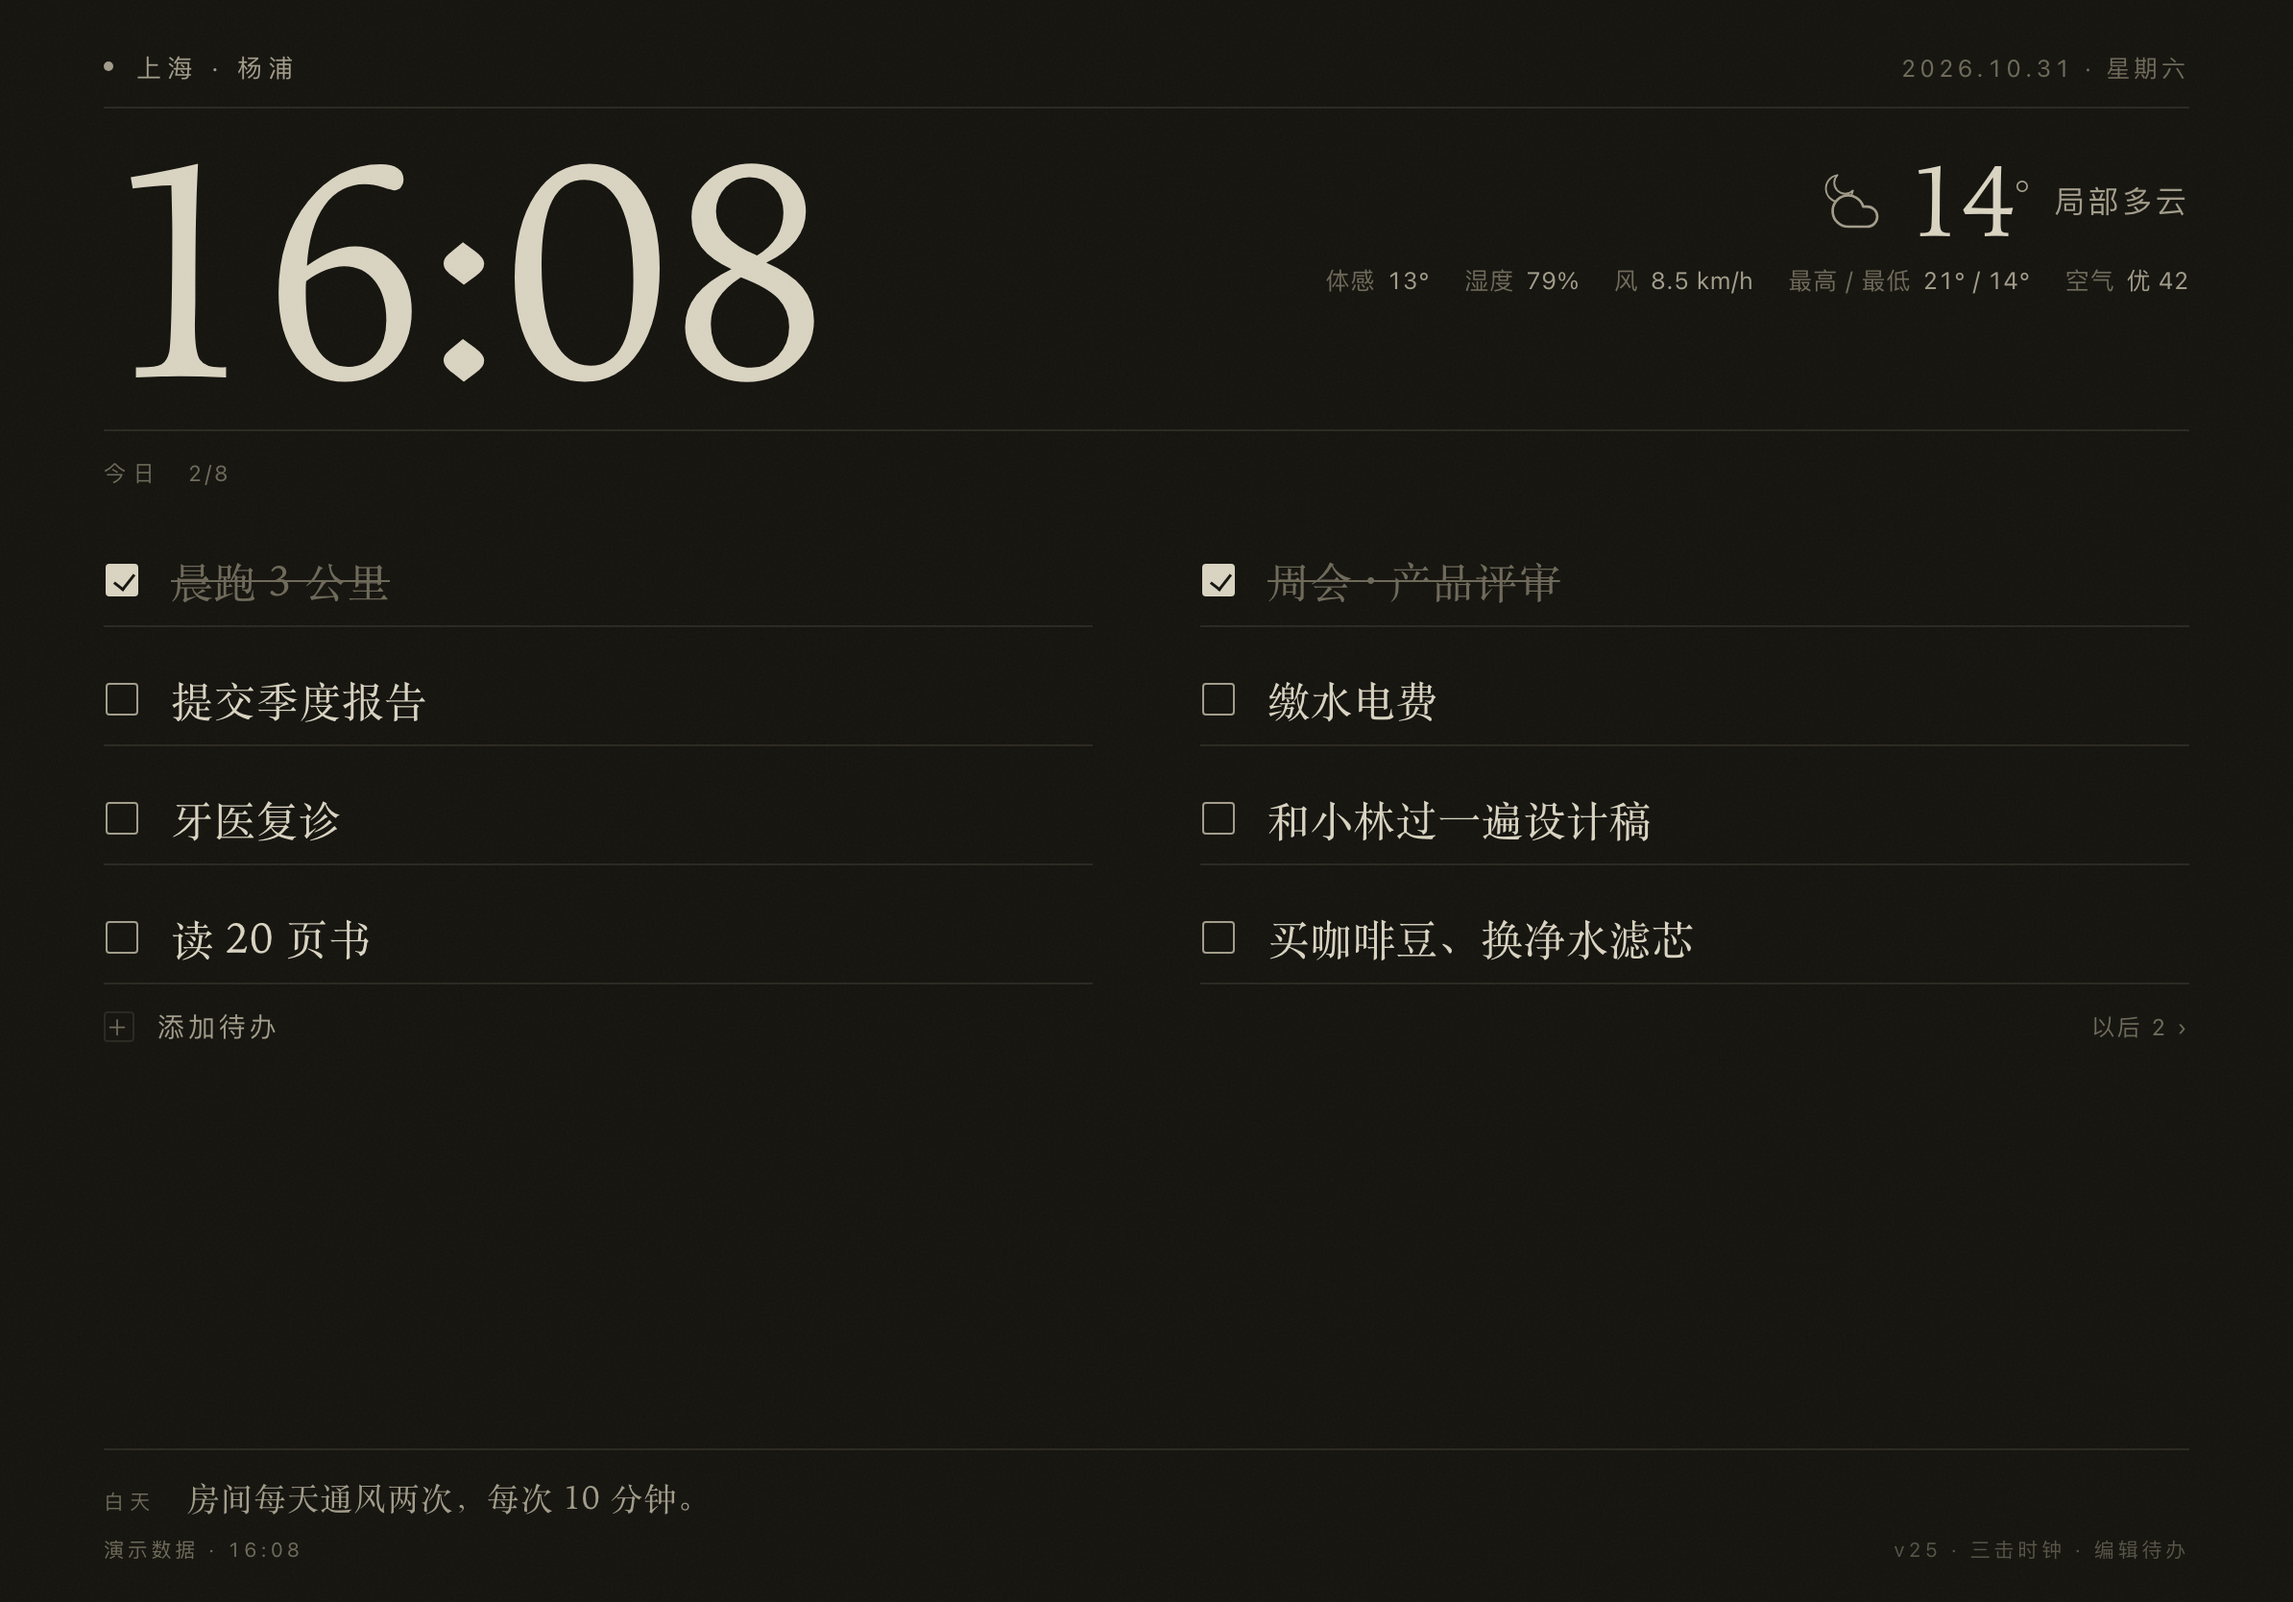
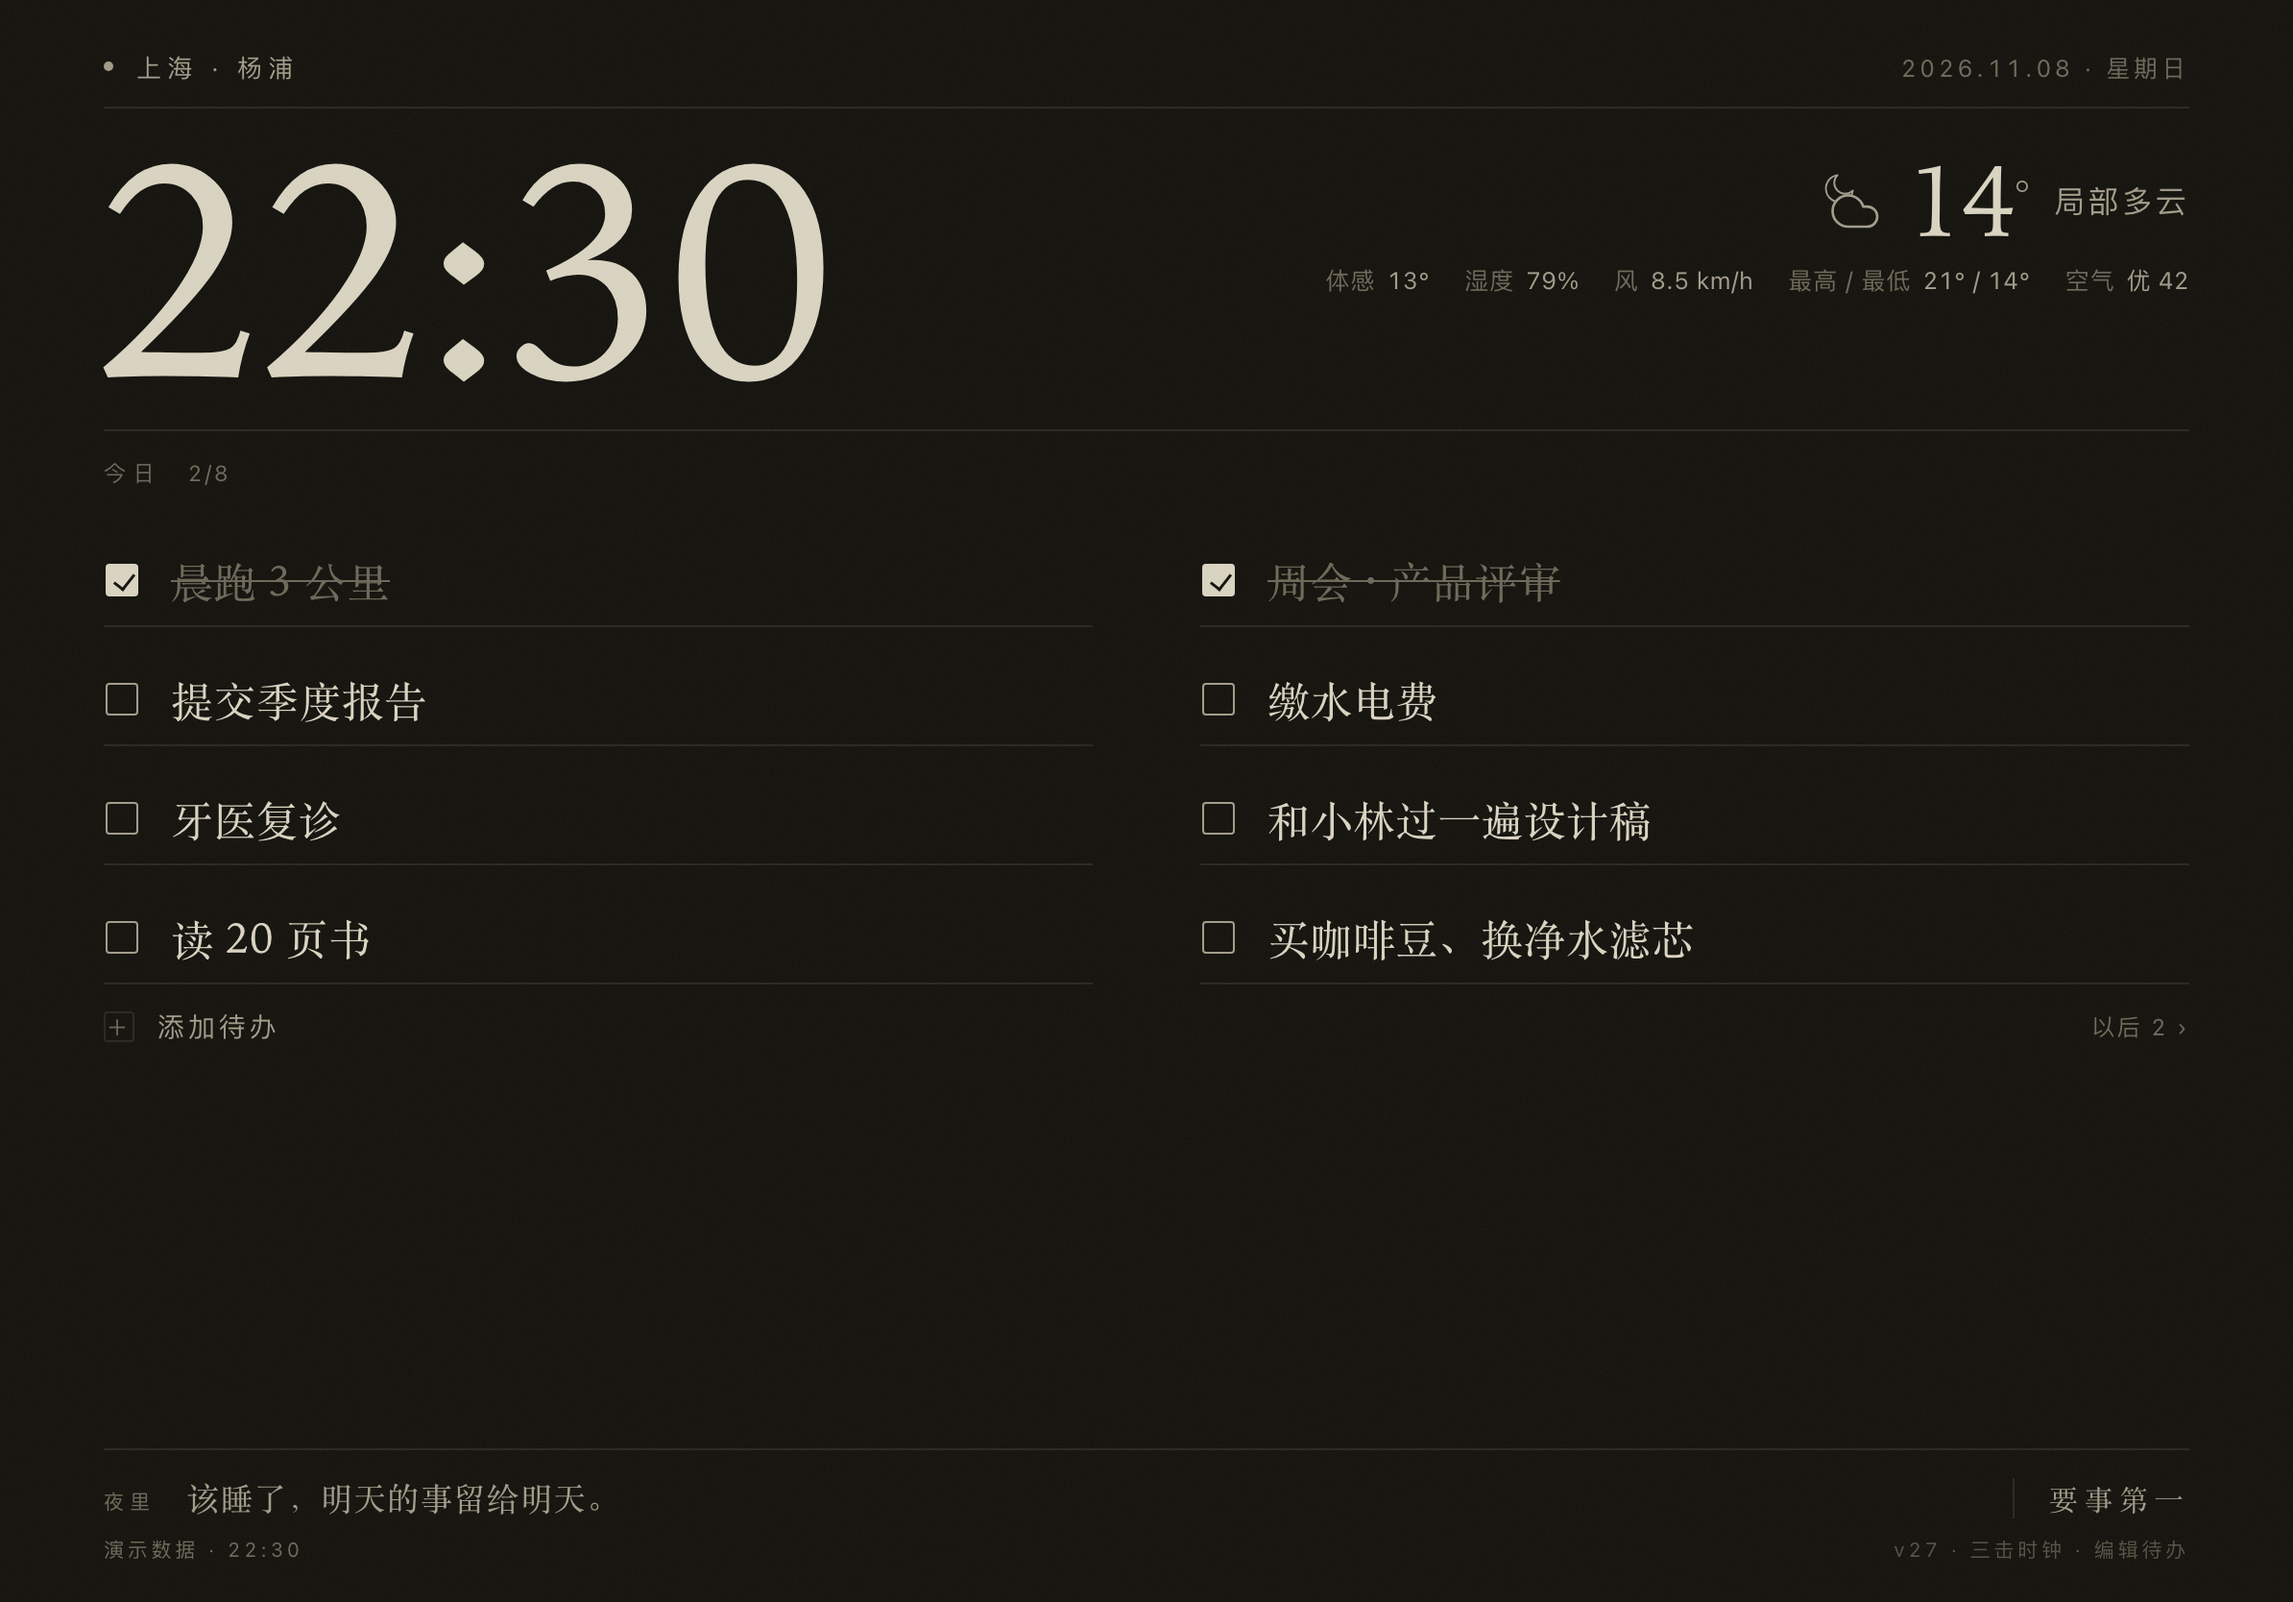
底部提醒右侧加每日轮换的原则（v27）

Changed region(s): [[0.031, 0.0935, 0.1859, 0.2494], [0.2169, 0.0935, 0.3719, 0.2494], [0.093, 0.9041, 0.2479, 0.9664]]

diff --git a/index.html b/index.html
@@ -189,6 +189,12 @@
   /* ---------- 底部：健康提示 + 状态 ---------- */
   #footarea{margin-top:auto;padding-top:12px;border-top:1px solid var(--rule)}
   #tipbar{display:flex;align-items:baseline;gap:16px;min-width:0}
+  #tip{flex:1 1 auto;min-width:0}
+  #motto{
+    flex:0 0 auto;
+    font-family:var(--serif);font-size:15px;letter-spacing:.22em;color:var(--ink-2);
+    padding-left:18px;border-left:1px solid var(--rule);white-space:nowrap;
+  }
   #tipbar .k{flex:0 0 auto;font-size:10.5px;letter-spacing:.3em;color:var(--muted)}
   #tip{
     font-family:var(--serif);font-size:17px;line-height:1.5;letter-spacing:.02em;
@@ -445,6 +451,7 @@
     <div id="tipbar">
       <span class="k" id="tipLabel">健康提示</span>
       <span id="tip">—</span>
+      <span id="motto"></span>
     </div>
     <div id="statusline">
       <span id="statusL">正在载入</span>
@@ -673,6 +680,9 @@
       ]
     },
 
+    // 底部右侧每天轮换的一句原则
+    mottos: ["以终为始", "要事第一", "积极主动", "高效工作", "不玩愚蠢的游戏"],
+
     display: {
       nightMode: "dim",     // "dim" 暗纸 / "invert" 反色 / "off" 不切换
       nightStart: 22,       // 22 点后进入夜间
@@ -716,7 +726,7 @@
     ]
   };
 
-  const BUILD = "v26";   // 改版时 +1，页脚可见，用来确认主屏 App 拿到的是哪一版
+  const BUILD = "v27";   // 改版时 +1，页脚可见，用来确认主屏 App 拿到的是哪一版
 
   const params = new URLSearchParams(location.search);
   const DEMO_MODE = params.has("demo");
@@ -864,7 +874,8 @@
 
     applyNight(p.hh);
     if (dayChanged) renderTodos();
-    renderTip();   // 每分钟比对一次，跨时段时自动换
+    renderTip();    // 每分钟比对一次，跨时段时自动换
+    renderMotto();  // 每天换一句
   }
 
   let nightClass = "";
@@ -1352,6 +1363,18 @@
     const dur = to > from ? to - from : to + 24 - from;
     const elapsed = h >= from ? h - from : h + 24 - from;
     return elapsed < dur / 2;
+  }
+
+  let mottoText = "";
+  function renderMotto() {
+    const list = CONFIG.mottos || [];
+    if (!list.length) return;
+    const p = nowParts();
+    const t = list[dayOfYear(p.y, p.m, p.d) % list.length];
+    if (t === mottoText) return;
+    mottoText = t;
+    const el = $("#motto");
+    if (el) el.textContent = t;
   }
 
   function renderTip() {

diff --git a/README.md b/README.md
@@ -177,6 +177,8 @@ location: { name: "上海 · 徐汇", lat: 31.1884, lon: 121.4336, tz: "Asia/Sha
 | 晚上 | 17:00–22:00 | 晚饭吃七分饱，夜里睡得更沉。 |
 | 夜里 | 22:00–05:00 | 该睡了，明天的事留给明天。 |
 
+底部那行字的右端还有一句**每天轮换的原则**（以终为始 / 要事第一 / 积极主动 / 高效工作 / 不玩愚蠢的游戏），五天一轮，改 `CONFIG.mottos` 就行。
+
 每个时段**前半程显示时段专属文案，后半程显示通用池**，各占一半时间：
 
 | 时段 | 前半（专属） | 后半（通用） |
